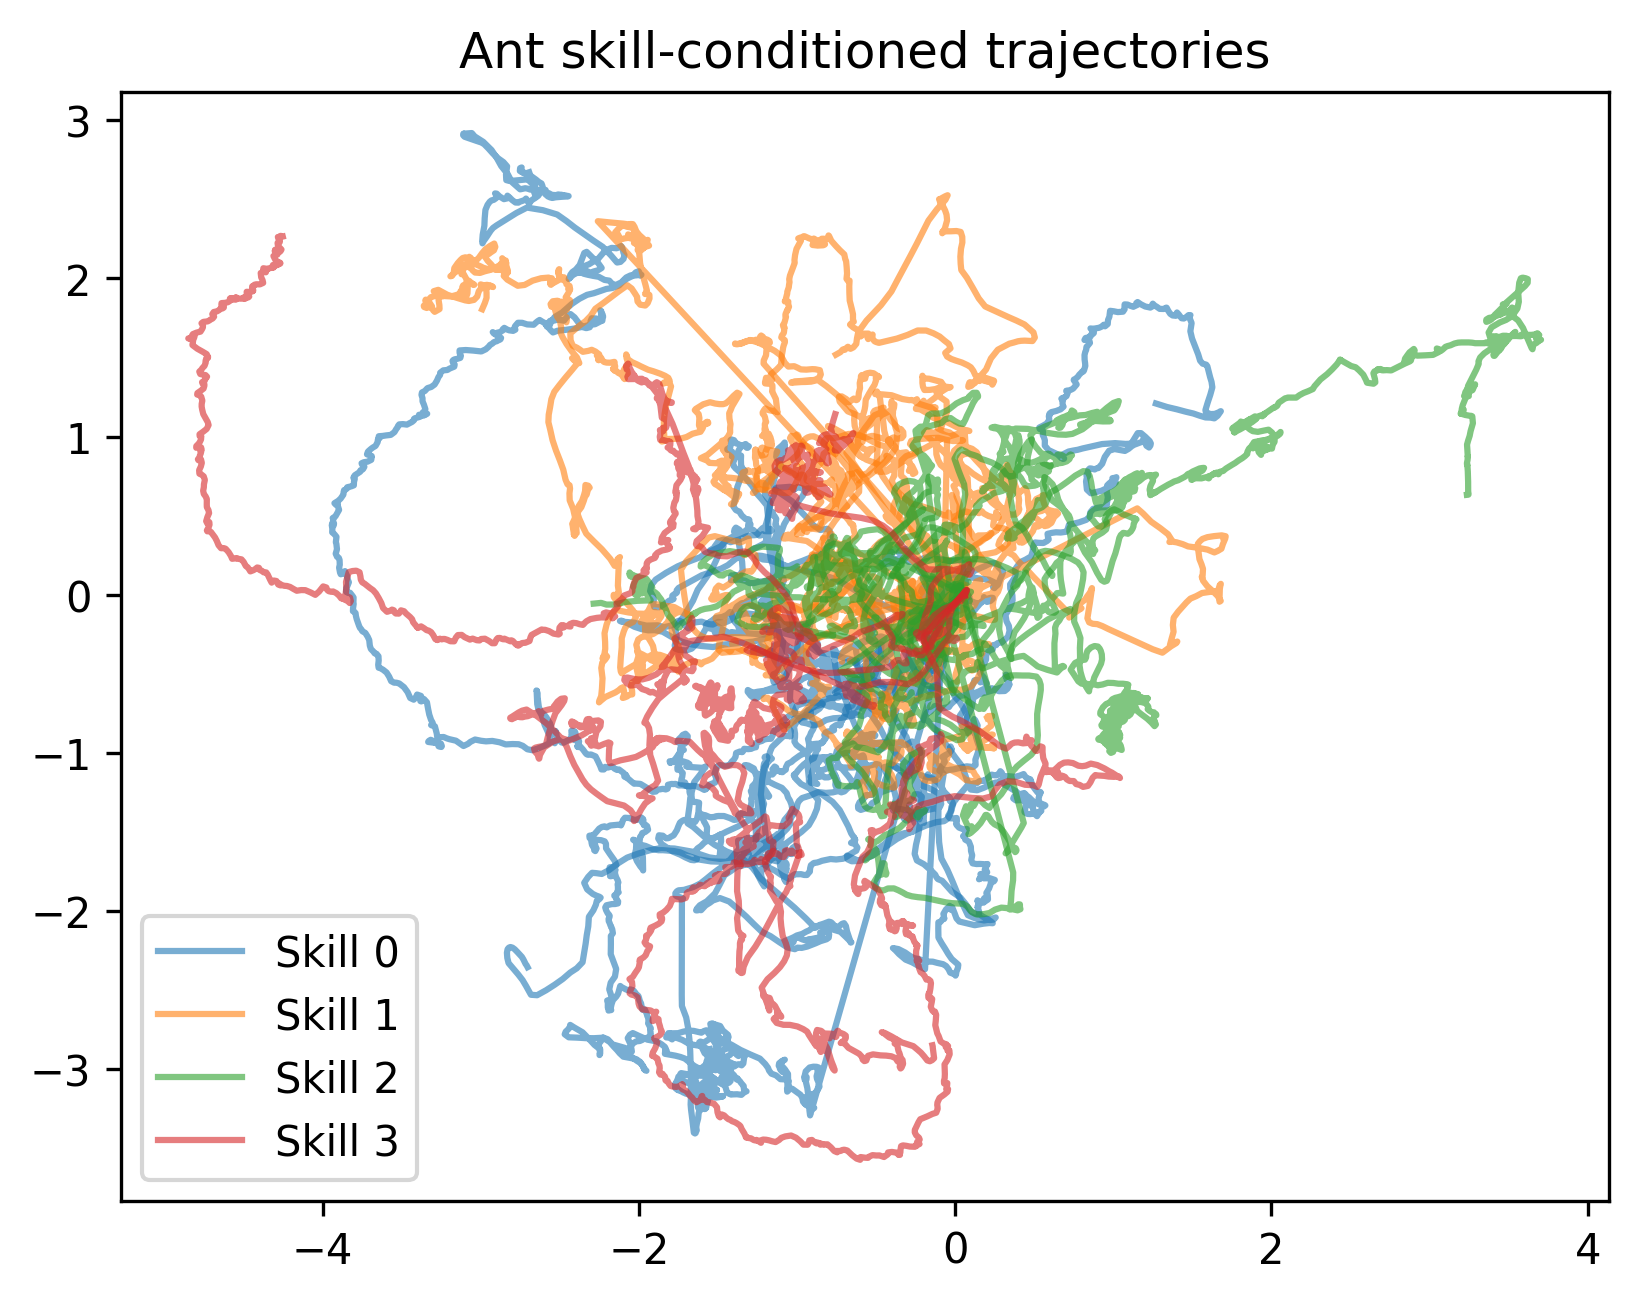
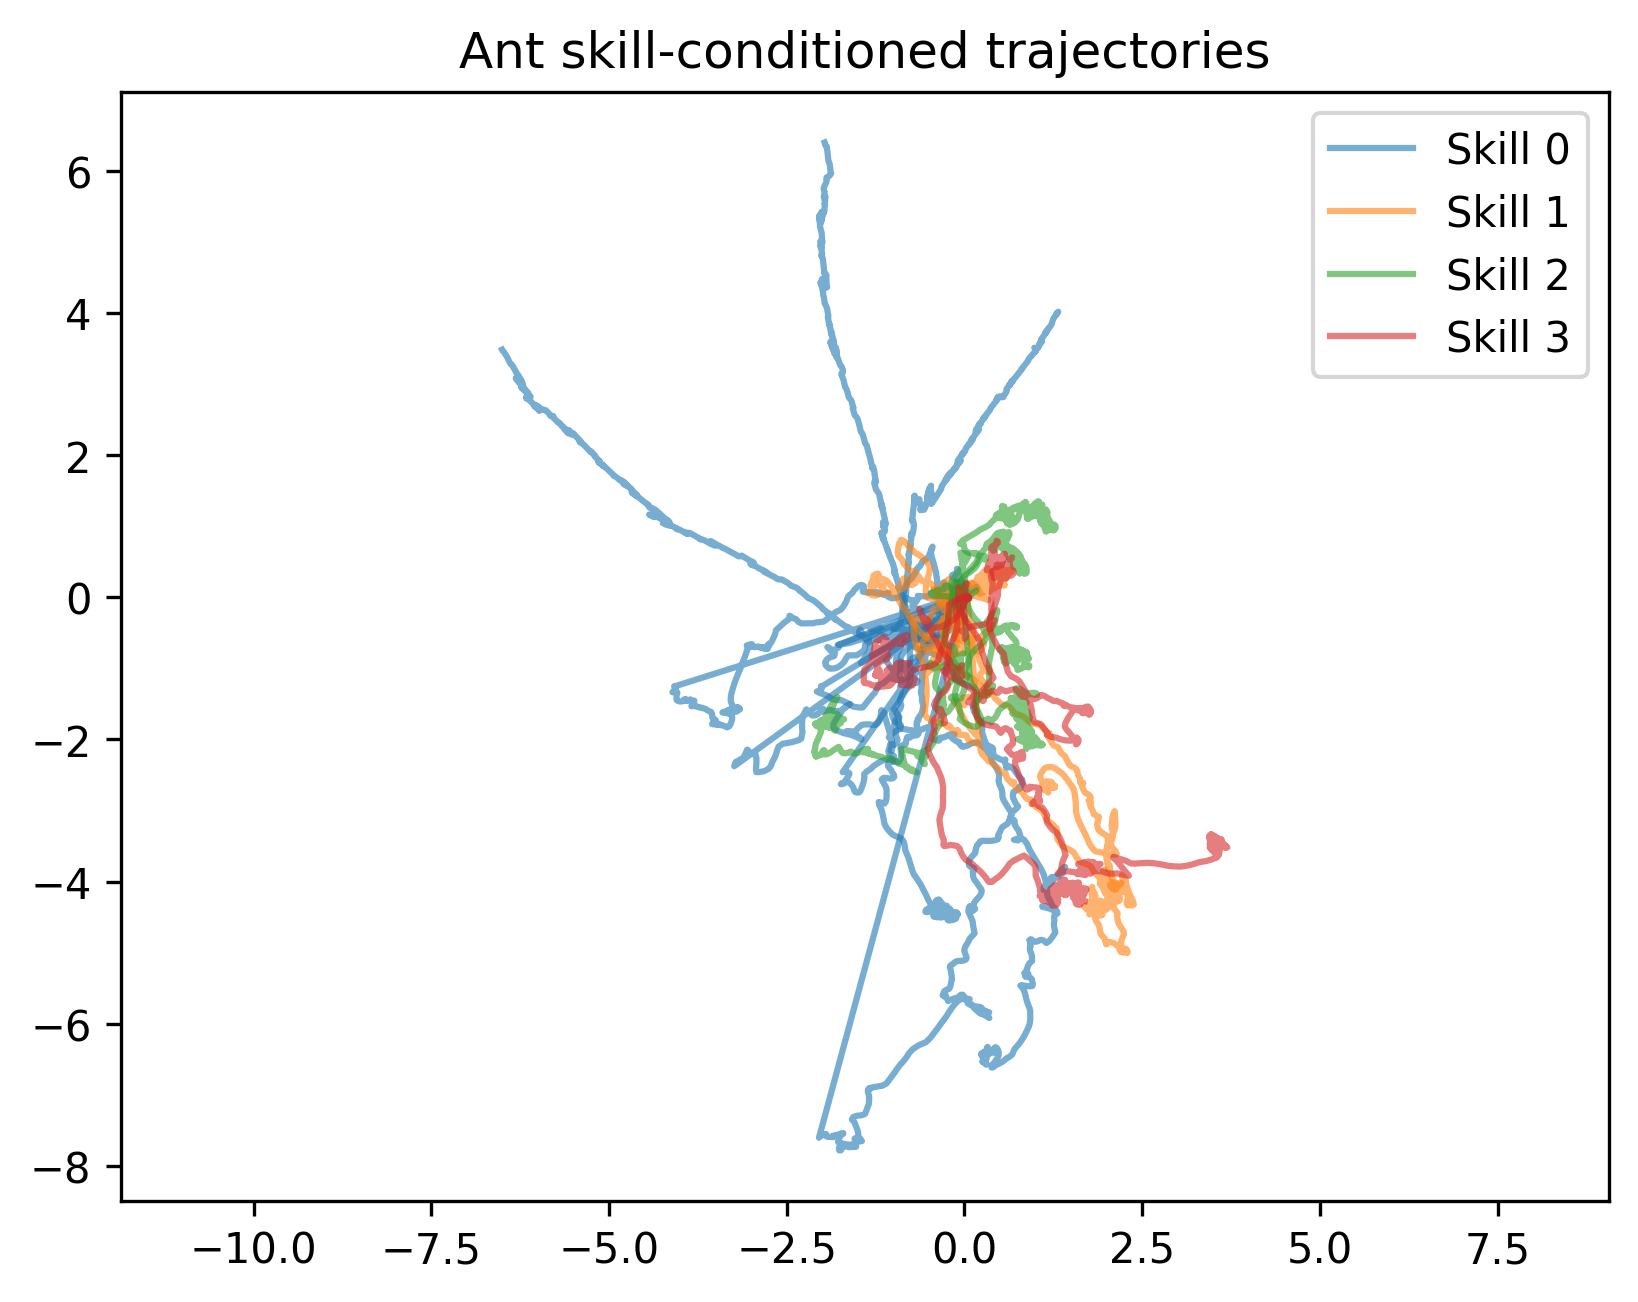
model traj ploter and dones arg

diff --git a/pufferlib/pufferl.py b/pufferlib/pufferl.py
@@ -283,12 +283,17 @@ class PuffeRL:
             done_mask = d + t # TODO: Handle truncations separately
             self.global_step += int(mask.sum())
 
+            if self.config['turn_off_dones']:
+                d[:] = 0
+                t[:] = 0
+
             profile('eval_copy', epoch)
             o = torch.as_tensor(o)
             o_device = o.to(device)#, non_blocking=True)
             r = torch.as_tensor(r).to(device)#, non_blocking=True)
             d = torch.as_tensor(d).to(device)#, non_blocking=True)
 
+            
             profile('eval_forward', epoch)
             with torch.no_grad(), self.amp_context:
                 state = dict(
@@ -1074,6 +1079,12 @@ def train(env_name, args=None, vecenv=None, policy=None, logger=None):
     pufferl.print_dashboard()
     model_path = pufferl.close()
     pufferl.logger.close(model_path)
+
+    if args['train']['save_traj']:
+        eval_args = copy.deepcopy(args)
+        eval_ant(env_name, args = eval_args, policy= policy,output_path=f"model_trajs/{logger.run_id}_trajectories.png")
+
+
     return all_logs
 
 
@@ -1158,6 +1169,7 @@ def eval(env_name, args=None, vecenv=None, policy=None):
             frames.append('Done')
 
 def eval_ant(env_name,
+    output_path="ant_skill_trajectories.png",
     steps_per_skill=20000,
     episodes_per_skill=5,
     args=None,
@@ -1237,8 +1249,8 @@ def eval_ant(env_name,
                 xy = driver.env.unwrapped.data.qpos[0:2].copy()
                 traj.append(xy)
 
-                if t.any(): #d.any() or t.any()
-                    break
+                #if t.any(): #d.any() or t.any()
+                 #   break
 
             trajectories[skill_id].append(np.array(traj))
 
@@ -1256,8 +1268,10 @@ def eval_ant(env_name,
     plt.legend()
     plt.axis("equal")
     plt.title("Ant skill-conditioned trajectories")
-    plt.savefig("ant_skill_trajectories.png", dpi=300, bbox_inches="tight")
+    plt.savefig(output_path, dpi=300, bbox_inches="tight")
     # plt.show()
+
+#ONLY FOR FOUR ROOMS BROKEN
 def eval_skills(env_name, steps_per_skill = 100, args=None, vecenv=None, policy=None):
     import matplotlib.pyplot as plt
     from collections import defaultdict
@@ -1360,6 +1374,8 @@ def sweep(args=None, env_name=None):
         np.random.seed(seed)
         torch.manual_seed(seed)
         sweep.suggest(args)
+        print("Sweep run:", args['vec'])
+
         total_timesteps = args['train']['total_timesteps']
         all_logs = train(env_name, args=args)
         all_logs = [e for e in all_logs if target_key in e]
